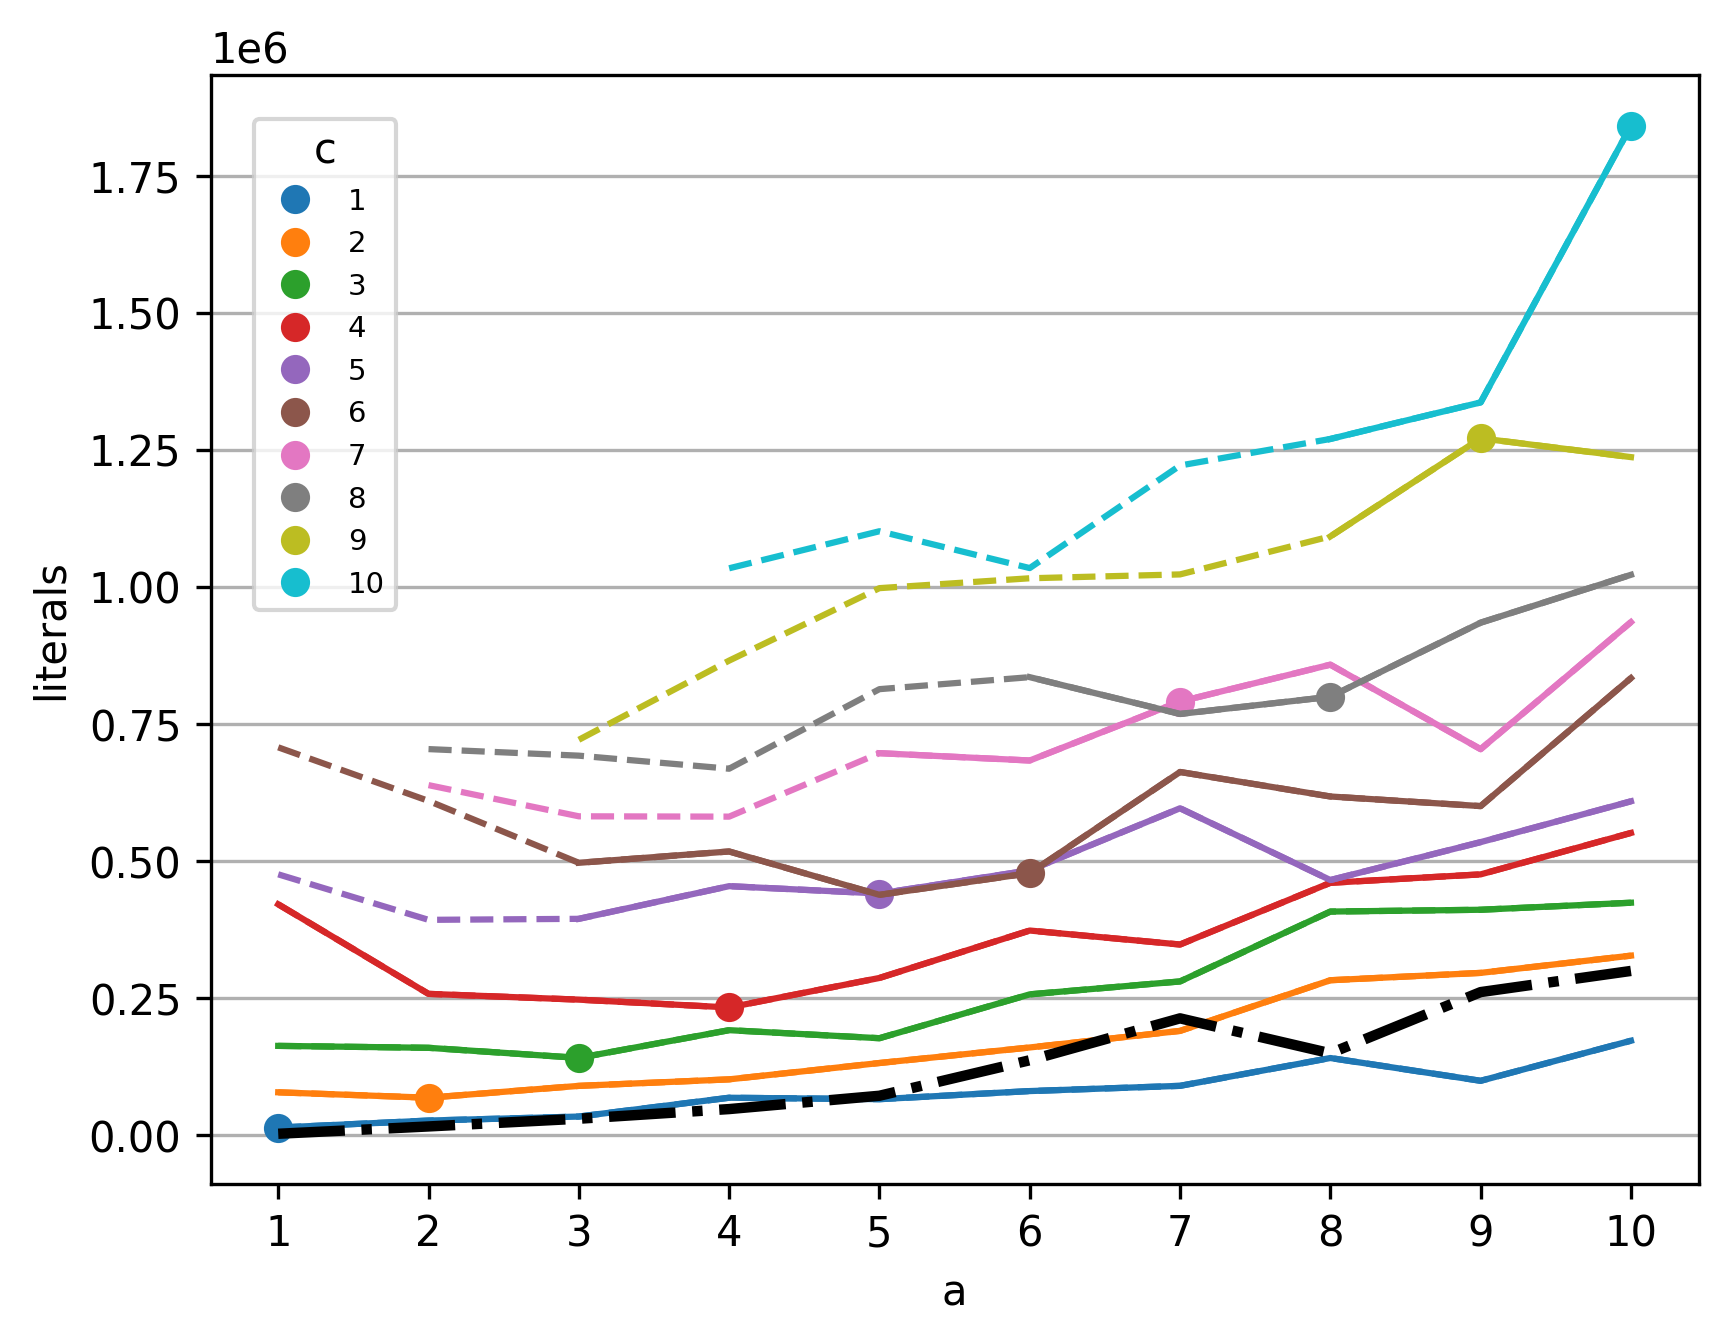
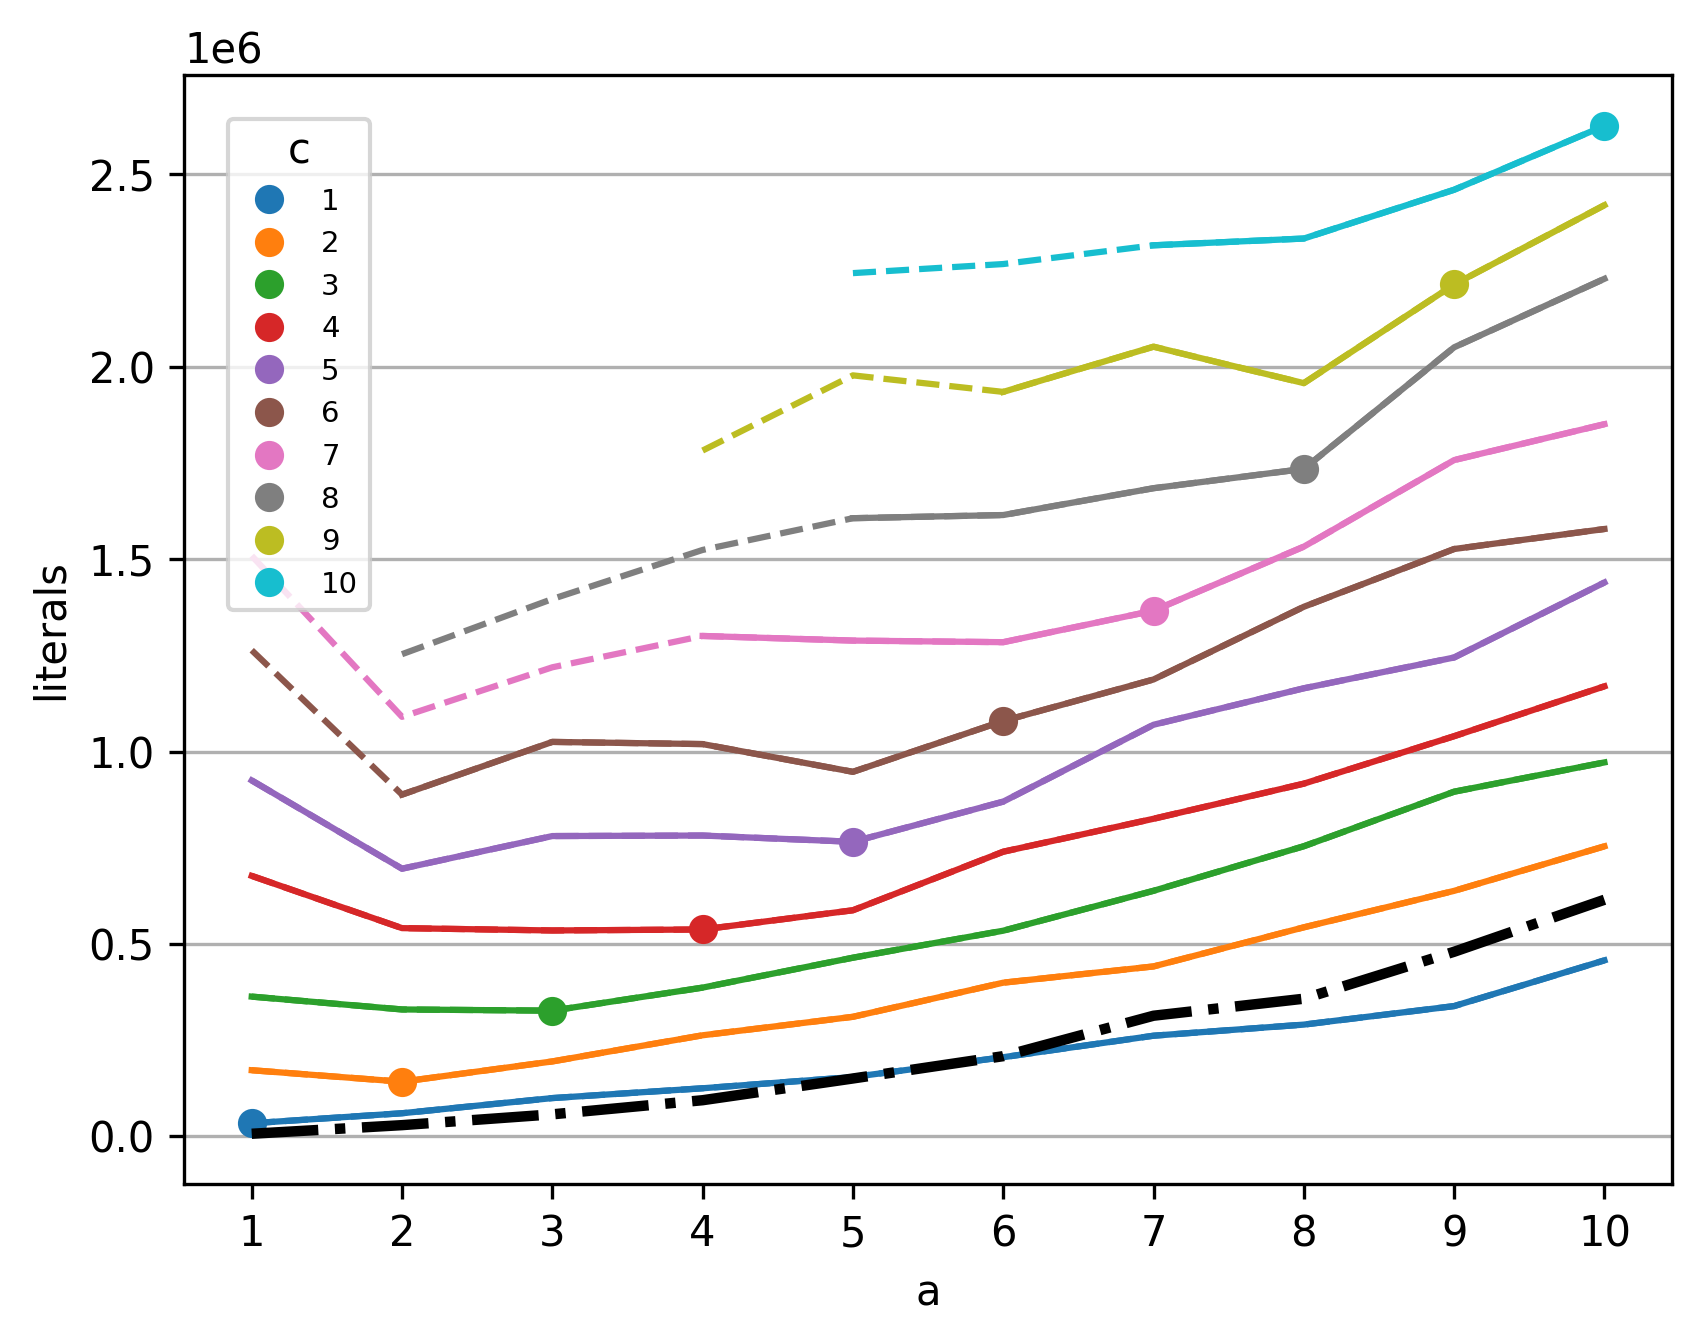
Improve input plots, additional analysis

diff --git a/input/evaluate.py b/input/evaluate.py
@@ -10,13 +10,13 @@ params   = ['g', 'b', 'a', 'c']
 instance = params + ['seed']
 static   = instance + ['makespan', 'n_literals']
 
-needed = static + ['config', 'result', 't_total']
+needed = static + ['config', 'result', 't_total', 'initial_bound', 'lower_bound']
 
 pickle_jar = 'data.p'
 
 N = 10
 
-def process(data: dict, ylabel='runtime', simple=False, lloc='upper right'):
+def process(data: dict, filename: str, ylabel: str, simple=False, lloc='upper right'):
 
     peqx = []
     peqy = []
@@ -35,16 +35,16 @@ def process(data: dict, ylabel='runtime', simple=False, lloc='upper right'):
 
     for i in range(1, 10 + 1):
         d = data[i].values()
-        partial = [math.nan] + list(map(lambda x: math.nan if x[1] == N else x[0], d))
+        partial = [math.nan] + list(map(lambda x: math.nan if x[1] >= .9 else x[0], d))
         axMain.plot(partial, linestyle='dashed', color=colors[c])
-        full = [math.nan] + list(map(lambda x: math.nan if x[1] > 0 else x[0], d))
+        full = [math.nan] + list(map(lambda x: math.nan if x[1] > .5 else x[0], d))
         axMain.plot(full, color=colors[c])
         if not simple:
             axLin.plot([math.nan] + list(map(lambda x: x[1] if x[1] > 0 else 0, d)), color=colors[c])
         axMain.plot(i, data[i][i][0], 'o', color=colors[c], label=i)
         c += 1
 
-    full = [math.nan] + list(map(lambda x: math.nan if x[1] > 0 else x[0], data['r'].values()))
+    full = [math.nan] + list(map(lambda x: math.nan if x[1] > .5 else x[0], data['r'].values()))
     axMain.plot(full, color='black', ls='dashdot', lw=2.5)
 
     if not simple:
@@ -54,21 +54,22 @@ def process(data: dict, ylabel='runtime', simple=False, lloc='upper right'):
         axLin.xaxis.set_ticks_position('top')
         plt.setp(axLin.get_xticklabels(), visible=False)
         axLin.axhline(y=0, color='black')
-        axLin.set_ylabel('unsolved')
+        axLin.set_ylabel('unsolved (%)')
 
     axMain.set_ylabel(ylabel)
     axMain.set_xlabel('a')
     axMain.xaxis.set_major_locator(ticker.MultipleLocator(1))
     if not simple:
-        axLin.yaxis.set_minor_locator(ticker.MultipleLocator(1))
+        axLin.yaxis.set_minor_locator(ticker.MultipleLocator(.1))
+        axLin.yaxis.set_major_formatter(ticker.PercentFormatter(1, symbol=None))
     axMain.yaxis.grid(True)
     if not simple:
         axLin.yaxis.grid(True)
-        axLin.legend(list('123456789') + ['10'], title='c', prop={'size': 7}, framealpha=1, borderaxespad=1, loc=lloc)
+        axLin.legend(range(1, 10 + 1), title='c', prop={'size': 7}, framealpha=1, borderaxespad=1, loc=lloc)
     else:
         axMain.legend(title='c', prop={'size': 7}, borderaxespad=1.5, loc=lloc)
-    plt.savefig(ylabel, dpi=300, bbox_inches = 'tight')
-    print("Plot saved to file {}.png".format(ylabel))
+    plt.savefig(filename, dpi=300, bbox_inches = 'tight')
+    print("Plot saved to file {}.png".format(filename))
     plt.close()
 
 def load(base_path: str) -> pd.DataFrame:
@@ -88,14 +89,13 @@ def load(base_path: str) -> pd.DataFrame:
 
     return pd.concat(dfs)
 
-def get(data: pd.DataFrame, g=7, b=20, field='t_total') -> dict:
+def get(data: pd.DataFrame, field='t_total') -> dict:
 
     result = dict()
-    data = data[(data['g'] == g) & (data['b'] == b)]
-    ps = dict(tuple(data.groupby(params)))
+    ps = dict(tuple(data.groupby(['a', 'c'])))
     for i, s in ps.items():
-        result.setdefault(i[3], dict())
-        result[i[3]][i[2]] = (s[field].mean(), s['result'].count())
+        result.setdefault(i[3 - 2], dict())
+        result[i[3 - 2]][i[2 - 2]] = (s[field].mean(), s['result'].count() / len(s))
 
     return result
 
@@ -106,6 +106,32 @@ def do(field: str, kwargs):
     for k in e.keys():
         d['r'][k] = e[k][0]
     process(d, **kwargs)
+
+def lucky(data: pd.DataFrame) -> int:
+    equals = len(data[data['initial_bound'] == data['makespan']])
+    higher = len(data[data['lower_bound'] > data['initial_bound']])
+    dunno  = len(data) - higher - equals
+    return equals, higher, dunno
+
+def avgrelstdpar(data: pd.DataFrame, field='t_total') -> float:
+
+    result = []
+    ps = dict(tuple(data.groupby(params)))
+    for _, s in ps.items():
+        if (s[field].count() == N):
+            result.append(s[field].std() / s[field].mean())
+
+    return sum(result) / len(result)
+
+def grid(data: pd.DataFrame, field='t_total') -> float:
+
+    result = []
+    ps = dict(tuple(data.groupby('g')))
+    for i, s in ps.items():
+        result.append((i, s[field].mean(), s[field].std(), s[field].count()))
+
+    return result
+
 
 if __name__ == '__main__':
     try:
@@ -119,6 +145,17 @@ if __name__ == '__main__':
         with open(pickle_jar, 'wb') as fp:
             pickle.dump([mat, mapf], fp)
 
-    do('t_total', {'ylabel': 'runtime'})
-    do('makespan', {'simple': True, 'ylabel': 'makespan'})
-    do('n_literals', {'simple': True, 'ylabel': 'literals', 'lloc': 'upper left'})
+    out = "In {} cases the makespan is equal to the initial bound, in {} cases it is higher, in {} cases we don't know."
+    print(out.format(*lucky(mat)))
+    print("For instances not solved within half a second " + out.lower().format(*lucky(mat[~(mat['t_total'] < .5)])))
+
+    print(" g | avg (s)|   σ    |    n")
+    for g in grid(mat):
+        out = "{:2} | {:6.2f} | {:6.2f} | {:4}"
+        print(out.format(*g))
+
+    print("The average relative standard deviation of the parameter sets is {:4.2f}%".format(avgrelstdpar(mat) * 100))
+
+    do('t_total', {'ylabel': 'runtime (s)', 'filename': 'runtime'})
+    do('makespan', {'simple': True, 'ylabel': 'makespan', 'filename': 'makespan'})
+    do('n_literals', {'simple': True, 'ylabel': 'literals', 'filename': 'literals', 'lloc': 'upper left'})
